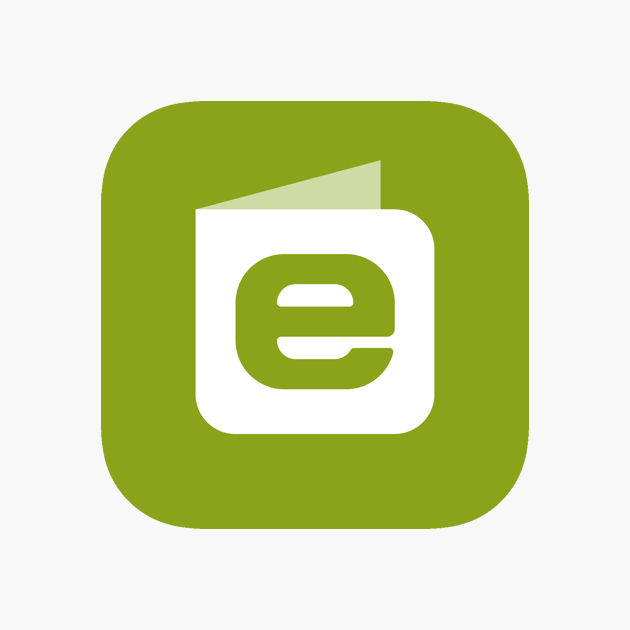
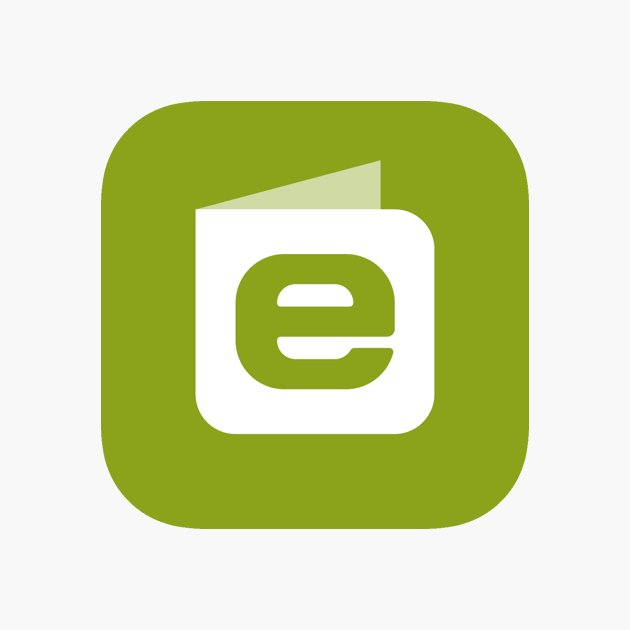
feat: add CHANGELOG, info.md, .gitignore; update strings.json to English; remove unused _options_schema

diff --git a/custom_components/etilbudsavis/config_flow.py b/custom_components/etilbudsavis/config_flow.py
@@ -30,35 +30,6 @@ def _terms_schema(defaults: dict) -> vol.Schema:
     )
 
 
-def _options_schema(defaults: dict) -> vol.Schema:
-    return vol.Schema(
-        {
-            vol.Optional(
-                CONF_STORES,
-                default=defaults.get(CONF_STORES, ALL_STORES),
-            ): vol.All(
-                vol.In(ALL_STORES),
-            ),
-            vol.Optional(
-                CONF_RADIUS,
-                default=defaults.get(CONF_RADIUS, DEFAULT_RADIUS),
-            ): vol.All(int, vol.Range(min=1000, max=100000)),
-            vol.Optional(
-                CONF_CANS_ONLY,
-                default=defaults.get(CONF_CANS_ONLY, False),
-            ): bool,
-            vol.Optional(
-                CONF_PRICE_PER_LITER,
-                default=defaults.get(CONF_PRICE_PER_LITER, False),
-            ): bool,
-            vol.Optional(
-                CONF_MAX_OFFERS,
-                default=defaults.get(CONF_MAX_OFFERS, 5),
-            ): vol.All(int, vol.Range(min=1, max=20)),
-        }
-    )
-
-
 def _parse_terms(raw: str) -> list[str]:
     """Parse comma-separated search terms."""
     return [t.strip() for t in raw.split(",") if t.strip()]

diff --git a/CHANGELOG.md b/CHANGELOG.md
@@ -1,0 +1,18 @@
+# Changelog
+
+## [1.0.1] - 2026-03-10
+
+### Changed
+- Added standard HACS structure (info.md, CHANGELOG.md, brand/icon.png, GitHub workflows and issue templates)
+- Fixed strings.json to be English (identical to translations/en.json) per HA convention
+
+## [1.0.0] - 2026-03-01
+
+### Added
+- Initial release
+- One sensor per search term with offer count and full offer details as attributes
+- `best_offer` attribute with lowest price (or price/liter)
+- Filter by store, cans only, search radius
+- Optional price per liter calculation
+- GUI setup and options flow (no YAML required)
+- Updates every 6 hours via shared coordinator

diff --git a/info.md b/info.md
@@ -1,0 +1,7 @@
+# eTilbudsavis
+
+Hent ugentlige tilbud fra [eTilbudsavis.dk](https://etilbudsavis.dk) direkte i Home Assistant.
+
+Opretter én sensor pr. søgeterme med antal aktive tilbud i nærheden — med butik, pris og datoer som attributter.
+
+Understøtter filtrering på butik, kun dåser, pris pr. liter og søgeradius. Alle indstillinger kan redigeres efter opsætning.

diff --git a/README.md b/README.md
@@ -126,3 +126,12 @@ action:
 ## Credits
 
 Based on the unofficial `api.etilbudsavis.dk/v2` API.
+
+---
+
+## License
+
+© 2026 Mac O Kay
+Free to use and modify for personal, non-commercial use.
+Credit appreciated if you share or build upon this work.
+Commercial use is not permitted.
